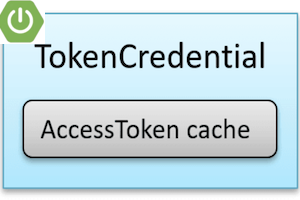
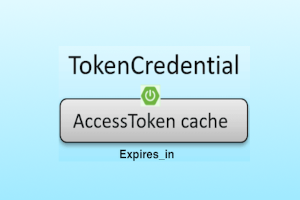
css blog list

diff --git a/src/app/lib/component/blog-list/blog-list.component.scss b/src/app/lib/component/blog-list/blog-list.component.scss
@@ -1,40 +1,55 @@
+@use '@angular/material' as mat;
+
 #list {
-    margin-bottom: 20px;
-    .item {
-        margin-bottom: 2vw;
-        display: flex;
-        flex-direction: row;
-        background-color: var(--mat-sys-background);
-        border-radius: 10px;
-        box-shadow: var(--mat-sys-level1);
+    margin: 0px auto;
+    display: flex;
+    flex-direction: row;
+    flex-wrap: wrap;
+    text-align: justify;
+    width: 1170px;
 
-        &:hover {
-            box-shadow: var(--mat-sys-level2);
+    @media (max-width: 1320px) {
+        width: 780px;
+    }
+
+    @media (max-width: 1320px) {
+        width: 780px;
+    }
+
+    @media (max-width: 780px) {
+        width: 390px;
+    }
+
+    @media (max-width: 390px) {
+        width: 390px;
+    }
+
+    mat-card {
+        width: 350px;
+        margin: 20px;
+
+        mat-card-subtitle {
+            width: 100%;
+            text-align: center;
+            font: 300 0.8rem / 1.2rem Roboto;
+
+            i {
+                font-size: 0.7rem;
+            }
+
+            margin: 15px 0px;
         }
 
-        @media (max-width: 425px) {
-            flex-direction: column;
-            padding-top: 15px;
-            margin-top: 20px;
+        img {
+            box-shadow: rgba(0, 0, 0, 0.05) 0px 0px 0px 1px;
+            aspect-ratio: 3/2;
+            overflow-clip-margin: content-box;
+            overflow: clip;
         }
 
-        div:first-child {
-            display: block;
-            padding: 0px 2vw;
-
+        mat-card-content {
             h3 {
-                font-weight: var(--mat-sys-title-large-weight);
-
-                @media (max-width: 768px) {
-                    font-size: small;
-                    margin: 10px 0px 2px 0px;
-                    line-height: 18px;
-                }
-
-                @media (max-width: 425px) {
-                    font-size: larger;
-                    margin-bottom: 20px;
-                }
+                font-weight: 500;
 
                 a {
                     color: var(--mat-sys-primary);
@@ -43,87 +58,30 @@
                         color: var(--mat-sys-tertiary);
                     }
                 }
-            }
 
-            span {
-                line-height: 3ex;
-
-                @media (max-width: 768px) {
-                    line-height: 2ex;
-                }
-
-                @media (max-width: 425px) {
-                    line-height: 3ex;
-                }
-
-                code {
-                    padding: 0px 7px;
-                    background-color: var(--mat-sys-secondary-container);
-                    border-radius: 5px;
-                    margin-right: 5px;
-                    color: var(--mat-sys-on-secondary-container);
-                    user-select: all;
-                    font-size: x-small;
-                    display: inline-block;
-
-                    @media (max-width: 768px) {
-                        padding: 0px 3px;
-                        margin-right: 5px;
-                        font-size: xx-small;
-                    }
-
-                    @media (max-width: 425px) {
-                        padding: 0px 5px;
-                        font-size: small;
-                    }
-                }
-            }
-
-            p {
-                text-align: justify;
-                color: var(--mat-sys-on-background);
-                @media (max-width: 768px) {
-                    font-size: small;
-                    margin-top: 10px 0px;
-                }
-
-                @media (max-width: 425px) {
-                    margin: 20px 0px;
-                    font-size: large;
-                }
+                text-align: center;
             }
         }
-
         .spacer {
             flex: auto;
         }
 
-        div:nth-child(3) {
-            margin: 0px;
-            text-align: center;
+        mat-card-footer {
+            padding: 16px 16px 16px 16px;
+            min-height: 60px;
+            @include mat.chips-overrides((label-text-color: var(--mat-sys-on-primary),
+                    outline-width: 0px,
+                    label-text-size: 0.7rem,
+                    label-text-weight: 100,
+                    container-height: 1.5rem));
 
-            @media (max-width: 425px) {
-                width: 100%;
-                margin: 20px 0px;
-            }
-
-            img {
-                border-radius: 10px;
-                width: 300px;
-                height: 100%;
-
-                @media (max-width: 768px) {
-                    width: 200px;
-                }
-
-                @media (max-width: 425px) {
-                    width: 90%;
-                }
+            mat-chip {
+                background-color: var(--mat-sys-primary);
             }
         }
-
     }
 }
-mat-paginator{
+
+mat-paginator {
     background-color: white;
 }

diff --git a/src/app/lib/component/blog-list/blog-list.component.html b/src/app/lib/component/blog-list/blog-list.component.html
@@ -5,25 +5,28 @@
 }
 <div id="list">
     @for (item of blogs().content; track $index) {
-    <div class="item">
-        <div>
-            <i>{{ item.attributes.date | date: "dd MMM yyyy"}} - {{item.attributes.readingTime}}</i>
-            <h3>
-                <a routerLink="/blogs/{{item.name}}">{{item.attributes.title}}</a>
-            </h3>
-            <span>
-                @for (key of item.attributes.tags; track $index) {
-                <code>{{key}}</code>
-                }
-            </span>
-            <p>{{item.attributes.summary}}</p>
-        </div>
+    <mat-card appearance="outlined">
+        <mat-card-subtitle>
+            <i class="material-icons">calendar_today</i> {{ item.attributes.date | date: "dd MMM yyyy"}} &nbsp; |
+            &nbsp; <i class="material-icons">import_contacts</i> {{item.attributes.readingTime}}
+        </mat-card-subtitle>
+        <img src="blog/img/{{item.attributes.image}}" />
+        <mat-card-content>
+            <h3><a routerLink="/blogs/{{item.name}}">{{item.attributes.title}}</a></h3>
+            <p>
+                {{item.attributes.summary}}
+            </p>
+        </mat-card-content>
         <span class="spacer"></span>
-        <div>
-            <img src="blog/img/{{item.attributes.image}}" />
-        </div>
+        <mat-card-footer>
+            <mat-chip-set aria-label="Chihuahua traits">
+                @for (key of item.attributes.tags; track $index) {
+                <mat-chip>{{key}}</mat-chip>
+                }
+            </mat-chip-set>
 
-    </div>
+        </mat-card-footer>
+    </mat-card>
     }
 </div>
 @if (showPaginator()){

diff --git a/src/app/blog/blog.component.scss b/src/app/blog/blog.component.scss
@@ -2,16 +2,25 @@
     >div {
         display: flex;
         margin: 10px auto;
-        width: 80vw;       
         flex-direction: row;
+        width: 1320px;
 
-        @media (max-width: 768px) {
-            width: 95vw;
-            flex-direction: column;
+        @media (max-width: 1320px) {
+            width: 930px;
         }
 
-        @media (max-width: 425px) {
-            width: 95vw;
+        @media (max-width: 930px) {
+            flex-direction: column;
+            width: 780px;
+        }
+
+        @media (max-width: 780px) {            
+            width: 390px;
+        }
+
+        @media (max-width: 390px) {
+            width: 390px;
+            
         }
 
         >div {
@@ -19,20 +28,25 @@
             line-height: 1.5em;
             font-family: "Roboto";
             font-weight: bold;
-            @media (max-width: 768px) {
+
+            @media (max-width: 930px) {
                 margin: 0px 0px 0px 0px;
             }
-        }
 
-        mat-checkbox {
-            display: block;
-            width: 120px;
+            mat-checkbox {
+                display: block;
+                width: 120px;
 
-            @media (max-width: 768px) {
-                display: inline-block;
-                width: auto;
+                @media (max-width: 930px) {
+                    display: inline-block;
+                    width: auto;
+                }
             }
         }
-
     }
+
+    // app-blog-list{
+    //     width: 100%;
+    // }
+
 }

diff --git a/src/app/lib/component/blog-list/blog-list.component.ts b/src/app/lib/component/blog-list/blog-list.component.ts
@@ -9,10 +9,11 @@ import { BlogMetadata } from '@app/lib/api/model/blog-metadata';
 import { Params } from '@app/lib/constants/constants';
 import { Page } from '@app/lib/api/model/pagination';
 import { environment } from '../../../../environments/environment';
+import { MatChipsModule } from '@angular/material/chips';
 
 @Component({
   selector: 'app-blog-list',
-  imports: [MatCardModule, RouterLink, MatPaginatorModule, DatePipe],
+  imports: [MatCardModule, RouterLink, MatPaginatorModule, DatePipe, MatChipsModule],
   templateUrl: './blog-list.component.html',
   styleUrl: './blog-list.component.scss'
 

diff --git a/src/environments/environment.ts b/src/environments/environment.ts
@@ -1,6 +1,6 @@
 export const environment = {
     apiUrl: 'https://seabird86.github.io/myProfile',
-    homePageSize: 3,
-    pageSize: 10
+    homePageSize: 6,
+    pageSize: 6
 
 };

diff --git a/src/environments/environment.development.ts b/src/environments/environment.development.ts
@@ -1,5 +1,5 @@
 export const environment = {
     apiUrl: 'http://localhost:4200',
-    homePageSize: 3,
-    pageSize: 3
+    homePageSize: 6,
+    pageSize: 6
 };

diff --git a/src/app/home/home.component.scss b/src/app/home/home.component.scss
@@ -138,7 +138,6 @@
 
 .blogs {
     margin: 10vw auto auto auto;
-    width: 70vw;
 
     h3 {
         text-align: center;

diff --git a/public/blog/springboot/onbase-api.md b/public/blog/springboot/onbase-api.md
@@ -1,9 +1,9 @@
 ---
-title: Solution to consume OnBase concurrent session licenses with REST API
+title: Microservice with OnBase concurrent session licenses
 date: 2024-08-20
 readingTime: 10 min read
-tags: [Java, Spring boot, Concurrent session, OnBase, Rest]
-summary: How do a micro service consume a proper number of concurrent session licenses on OnBase system.
+tags: [OnBase, Concurrent license, Authentiation, Solution]
+summary: OnBase concurrent session licenses has limit. How to consume enough its license in a microservice.
 image: onbase-auth.png
 ---
 
@@ -15,7 +15,7 @@ image: onbase-auth.png
 
 - Here is a diagram of Authentication & Authorisation in OnBase system.
 
-<img src="blog/img/onbase-auth.png" width="400" height="300">
+<img src="blog/img/onbase-auth-max.png" width="400" height="300">
 
 ## 2. How to do
 

diff --git a/public/blog/angular/ngx-markdown.md b/public/blog/angular/ngx-markdown.md
@@ -1,9 +1,9 @@
 ---
-title: Extract and display metadata of a markdown file
+title: Ngx-markdown with metadata
 date: 2025-05-02
 readingTime: 10 min read
-tags: [Angular, Typescript, Ngx-markdown, Marked, Front-matter]
-summary: Play markdown metadata with Ngx-markdown
+tags: [Angular, Typescript, Ngx-markdown]
+summary: Customize Ngx-markdown to display metadata of a markdown file
 image: ngx-markdown.png
 ---
 

diff --git a/public/blog/angular/onbase-ocr.md b/public/blog/angular/onbase-ocr.md
@@ -2,7 +2,7 @@
 title: Using Tesseract OCR to redact PII in OnBase
 date: 2023-12-01
 readingTime: 10 min read
-tags: [OnBase, OCR, Tesseract, C#, redact, image, PDF]
+tags: [OnBase, OCR, Tesseract, Image]
 summary: Using open source Tesseract OCR library to redact sensitive information in image or PDF files in OnBase system.
 image: onbase-ocr.png
 ---

diff --git a/public/blog/angular/content-table.md b/public/blog/angular/content-table.md
@@ -2,7 +2,7 @@
 title: Display a Table of Contents
 date: 2024-08-01
 readingTime: 5 min read
-tags: [Angular, Typescript]
+tags: [Angular, Typescript, viewChild]
 summary: Table of Contents lists all links of headings in a blog.
 image: content-table.png
 ---
